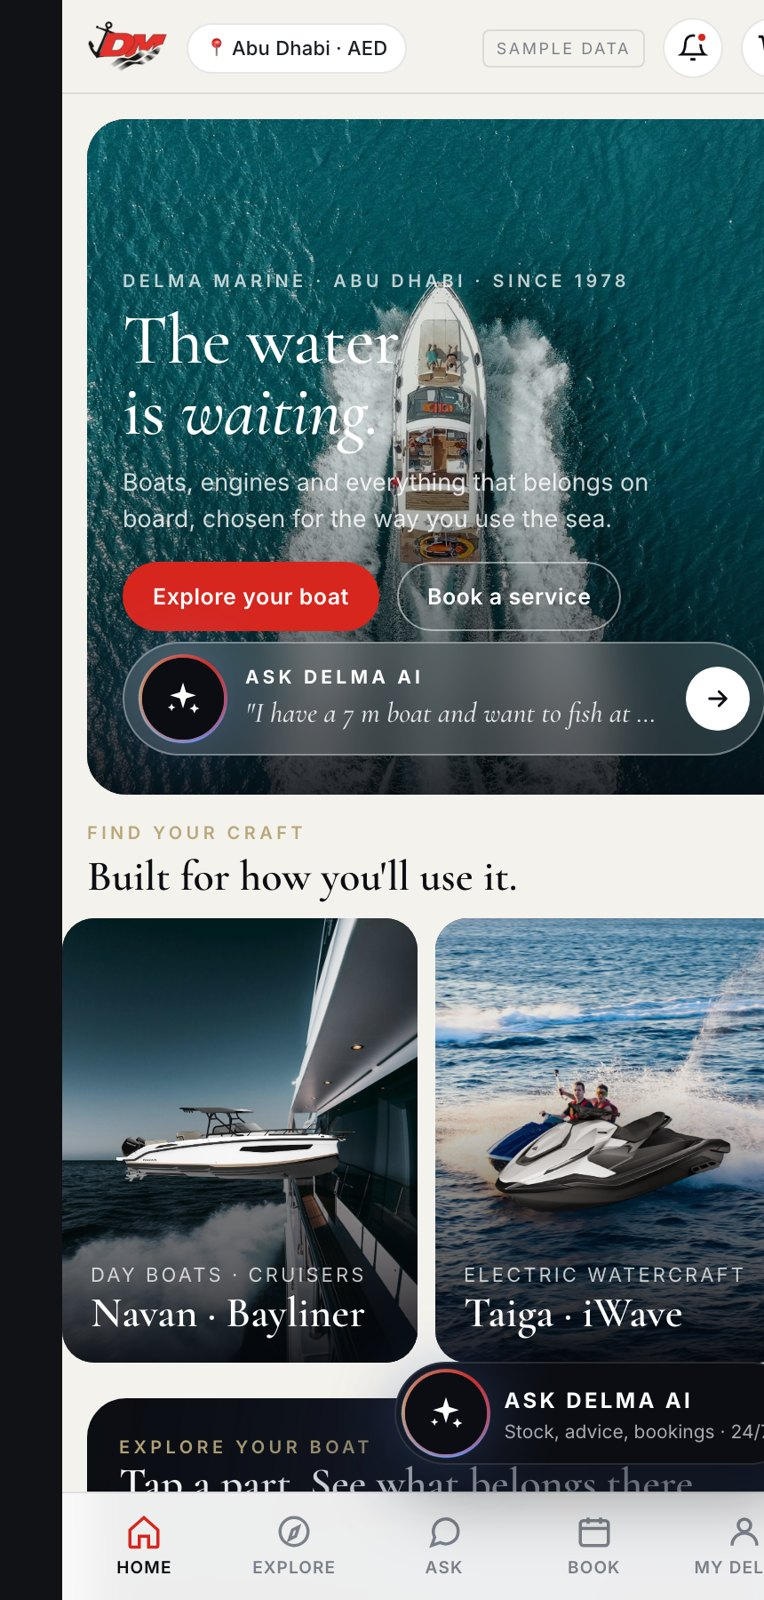
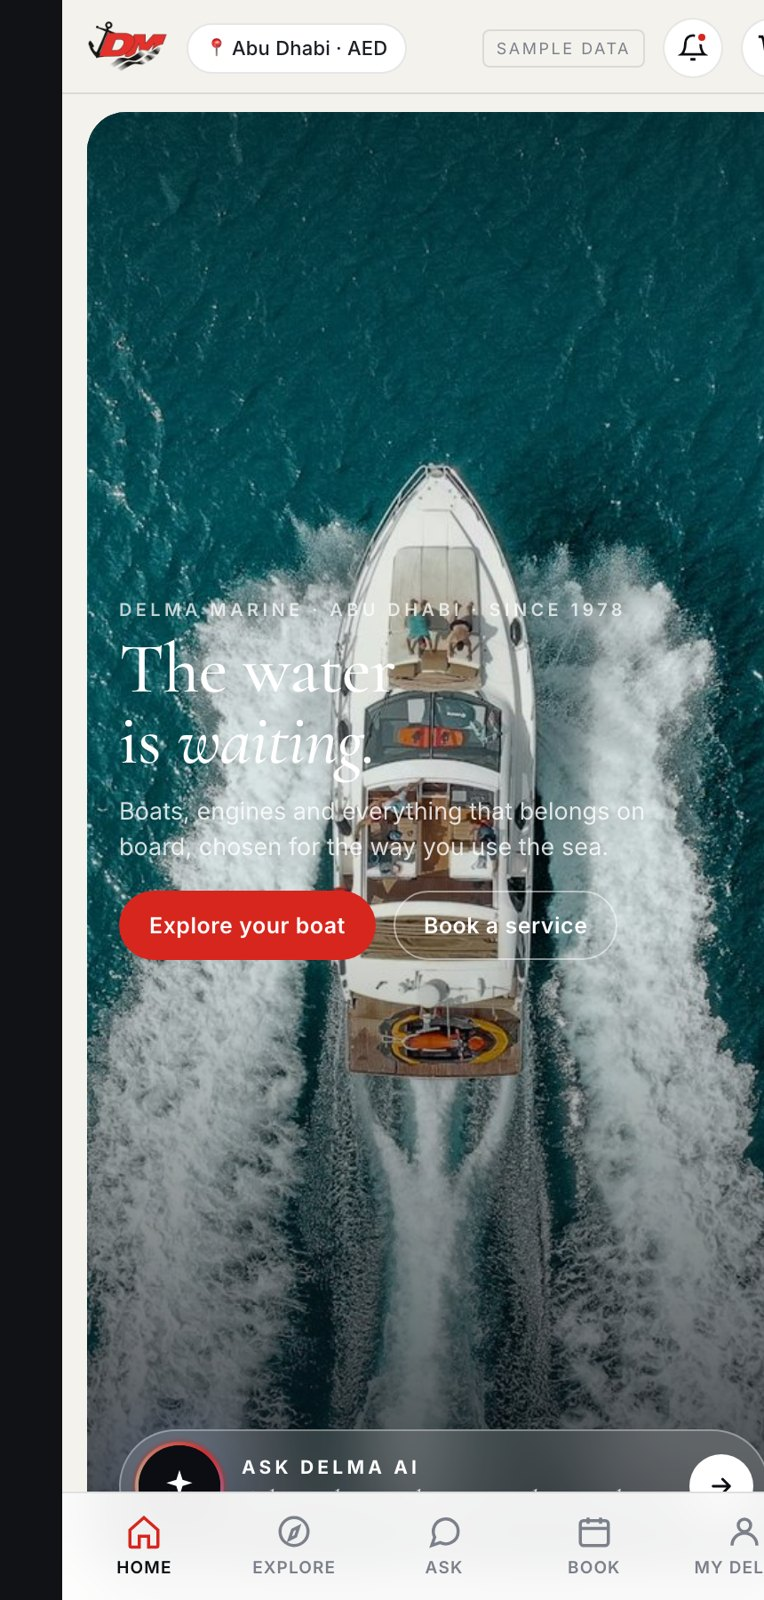
Full-screen cinematic hero with the AI type box at the bottom

diff --git a/index.html b/index.html
@@ -34,6 +34,7 @@ body{font-family:Inter,system-ui,-apple-system,sans-serif;background:#111216;col
 /* screens */
 #view{flex:1;overflow:auto;-webkit-overflow-scrolling:touch;position:relative;scroll-behavior:smooth}
 .scr{display:none;padding:14px 14px 90px}
+#s-home{padding-top:10px}
 .scr.on{display:block}
 h1{font-family:'Cormorant Garamond',Georgia,serif;font-size:30px;font-weight:600;letter-spacing:-.01em;line-height:1.1}
 h2{font-family:'Cormorant Garamond',Georgia,serif;font-size:24px;font-weight:600;margin:22px 0 10px;line-height:1.1}
@@ -52,9 +53,10 @@ p{margin-bottom:8px}
 .chip.ok{background:#E4F3EA;color:var(--ok)}.chip.am{background:#FBF0DA;color:var(--amber)}.chip.bl{background:#E6ECFA;color:var(--blue)}.chip.gr{background:#ECEAE3;color:var(--mut)}.chip.rd{background:#FBEAE8;color:var(--red)}
 .grid2{display:grid;grid-template-columns:1fr 1fr;gap:10px}
 /* hero */
-.hero{position:relative;border-radius:22px;overflow:hidden;min-height:380px;display:flex;flex-direction:column;justify-content:flex-end;padding:22px 20px;color:#fff;margin-bottom:14px;background:#0B0D12}
+.hero{position:relative;border-radius:22px;overflow:hidden;min-height:520px;display:flex;flex-direction:column;padding:22px 18px 18px;color:#fff;margin-bottom:14px;background:#0B0D12}
+.hero-copy{flex:1;display:flex;flex-direction:column;justify-content:center;position:relative}
 .hero .bg{position:absolute;inset:0;background:center/cover no-repeat;transform:scale(1.02)}
-.hero .sh{position:absolute;inset:0;background:linear-gradient(180deg,rgba(0,0,0,.05) 0%,rgba(0,0,0,.15) 45%,rgba(5,7,12,.85) 100%)}
+.hero .sh{position:absolute;inset:0;background:linear-gradient(180deg,rgba(0,0,0,.42) 0%,rgba(0,0,0,.08) 28%,rgba(0,0,0,.12) 55%,rgba(5,7,12,.82) 100%)}
 .hero>*{position:relative}
 .hero h1{font-size:40px;color:#fff;font-weight:500;line-height:1;margin:6px 0 10px}
 .hero h1 em{font-style:italic;font-weight:500}
@@ -221,9 +223,21 @@ p{margin-bottom:8px}
  body.desk .scr{padding:0 48px 80px;max-width:1320px;margin:0 auto}
  body.desk .scr.narrow{max-width:760px;padding-top:28px}
  body.desk #s-home{padding-top:0}
- body.desk .hero{min-height:620px;border-radius:0 0 28px 28px;margin:0 -48px 36px;padding:0 64px 64px}
- body.desk .hero h1{font-size:92px;max-width:900px;margin:10px 0 16px}
- body.desk .hero p{font-size:18px;max-width:520px;margin-bottom:22px}
+ body.desk #s-home{max-width:none;padding:0}
+ body.desk #s-home .wrap{max-width:1320px;margin:0 auto;padding:0 48px}
+ body.desk .hero{height:100vh;min-height:640px;border-radius:0;margin:0 0 44px;padding:96px 64px 40px}
+ body.desk.over .aifab{display:none}
+ body.desk .hero .bg{background-image:url(assets/photos/hero-aerial-4k.jpg)!important;background-position:center 45%}
+ body.desk .hero h1{font-size:104px;max-width:1000px;margin:12px 0 18px}
+ body.desk .hero p{font-size:19px;max-width:540px;margin-bottom:24px}
+ body.desk.over .top{position:absolute;left:0;right:0;top:0;background:transparent;border-bottom:0;backdrop-filter:none}
+ body.desk.over .top img{filter:brightness(0) invert(1)}
+ body.desk.over .hnav span{color:#fff}
+ body.desk.over .hnav span.on{color:#fff;text-decoration:underline;text-underline-offset:6px}
+ body.desk.over .hnav .ai{background:rgba(255,255,255,.16);border:1px solid rgba(255,255,255,.35)}
+ body.desk.over .pill,body.desk.over .ico,body.desk.over .viewtog{background:rgba(255,255,255,.14);color:#fff;border-color:rgba(255,255,255,.35)}
+ body.desk.over .ico svg{stroke:#fff}
+ body.desk.over .sample{color:rgba(255,255,255,.75);border-color:rgba(255,255,255,.35)}
  body.desk .hero .eyebrow{font-size:12px}
  body.desk h2{font-size:40px;margin:36px 0 16px}
  body.desk h1{font-size:48px}
@@ -266,7 +280,11 @@ p{margin-bottom:8px}
 .orb::after{content:"";position:absolute;inset:0;border-radius:50%;background:#0B0D12}
 .orb svg{width:22px;height:22px;position:relative;z-index:1;fill:#fff}
 .orb.sm{width:34px;height:34px;animation:none}.orb.sm svg{width:17px;height:17px}
-.aibar{display:flex;align-items:center;gap:12px;background:rgba(255,255,255,.14);backdrop-filter:blur(14px);border:1px solid rgba(255,255,255,.35);border-radius:999px;padding:8px 8px 8px 10px;cursor:pointer;margin-top:6px;max-width:560px;transition:.2s}
+.aibar{display:flex;align-items:center;gap:12px;background:rgba(255,255,255,.14);backdrop-filter:blur(14px);border:1px solid rgba(255,255,255,.35);border-radius:999px;padding:8px 8px 8px 10px;margin-top:14px;width:100%;transition:.2s;position:relative}
+.aibar:focus-within{background:rgba(255,255,255,.22);border-color:rgba(255,255,255,.7)}
+.aibar input{width:100%;border:0;background:transparent;color:#fff;font-family:'Cormorant Garamond',serif;font-style:italic;font-size:16px;outline:0;padding:0}
+.aibar input::placeholder{color:rgba(255,255,255,.75)}
+.aibar .go{border:0;cursor:pointer}
 .aibar:hover{background:rgba(255,255,255,.22)}
 .aibar .q{flex:1;min-width:0}
 .aibar .q b{display:block;font-size:10.5px;letter-spacing:.2em;text-transform:uppercase;color:#fff}
@@ -279,8 +297,10 @@ p{margin-bottom:8px}
 .aifab.hide{display:none}
 body.desk .aifab{right:40px;bottom:36px;padding:6px 20px 6px 6px}
 body.desk .aifab b{font-size:13px}
-body.desk .aibar{max-width:640px;padding:10px 10px 10px 12px;margin-top:10px}
-body.desk .aibar .q span{font-size:19px}
+body.desk .aibar{max-width:820px;padding:12px 12px 12px 14px;margin:0 auto;align-self:center}
+body.desk .aibar input{font-size:21px}
+body.desk .aibar .go{width:44px;height:44px}
+body.desk .aibar .orb{width:52px;height:52px}
 .hnav .ai{display:inline-flex;align-items:center;gap:6px;background:var(--ink);color:#fff!important;border-radius:999px;padding:7px 14px 7px 8px}
 .hnav .ai svg{width:14px;height:14px;fill:#fff}
 .hnav{display:none}
@@ -311,13 +331,16 @@ body.desk .aibar .q span{font-size:19px}
 <!-- HOME -->
 <section class="scr on" id="s-home">
   <div class="hero"><div class="bg" style="background-image:url(assets/photos/hero-aerial.jpg)"></div><div class="sh"></div>
-    <div class="eyebrow">Delma Marine · Abu Dhabi · since 1978</div>
-    <h1>The water<br>is <em>waiting.</em></h1>
-    <p>Boats, engines and everything that belongs on board, chosen for the way you use the sea.</p>
-    <div class="row" style="flex-wrap:wrap"><button class="btn p" onclick="go('explore')">Explore your boat</button><button class="btn g" onclick="go('book')">Book a service</button></div>
-    <div class="aibar" onclick="go('ask')"><div class="orb"><svg viewBox="0 0 24 24"><path d="M12 2l1.9 6.1L20 10l-6.1 1.9L12 18l-1.9-6.1L4 10l6.1-1.9zM19 15l.9 2.1L22 18l-2.1.9L19 21l-.9-2.1L16 18l2.1-.9zM5 15l.7 1.6L7.3 17.3l-1.6.7L5 19.6l-.7-1.6L2.7 17.3l1.6-.7z"/></svg></div><div class="q"><b>Ask Delma AI</b><span>"I have a 7 m boat and want to fish at night. What do I need?"</span></div><div class="go"><svg viewBox="0 0 24 24" fill="none" stroke="currentColor" stroke-width="2.2" stroke-linecap="round" stroke-linejoin="round"><path d="M5 12h14M13 6l6 6-6 6"/></svg></div></div>
+    <div class="hero-copy">
+      <div class="eyebrow">Delma Marine · Abu Dhabi · since 1978</div>
+      <h1>The water<br>is <em>waiting.</em></h1>
+      <p>Boats, engines and everything that belongs on board, chosen for the way you use the sea.</p>
+      <div class="row" style="flex-wrap:wrap"><button class="btn p" onclick="go('explore')">Explore your boat</button><button class="btn g" onclick="go('book')">Book a service</button></div>
+    </div>
+    <form class="aibar" onsubmit="event.preventDefault();askFromHome()"><div class="orb"><svg viewBox="0 0 24 24"><path d="M12 2l1.9 6.1L20 10l-6.1 1.9L12 18l-1.9-6.1L4 10l6.1-1.9zM19 15l.9 2.1L22 18l-2.1.9L19 21l-.9-2.1L16 18l2.1-.9zM5 15l.7 1.6L7.3 17.3l-1.6.7L5 19.6l-.7-1.6L2.7 17.3l1.6-.7z"/></svg></div><div class="q"><b>Ask Delma AI</b><input id="homeask" placeholder="Ask anything: &ldquo;I have a 7 m boat and want to fish at night. What do I need?&rdquo;"></div><button class="go" type="submit" aria-label="Ask"><svg viewBox="0 0 24 24" fill="none" stroke="currentColor" stroke-width="2.2" stroke-linecap="round" stroke-linejoin="round"><path d="M5 12h14M13 6l6 6-6 6"/></svg></button></form>
   </div>
 
+  <div class="wrap">
   <div class="eyebrow">Find your craft</div>
   <h2 style="margin-top:4px">Built for how you'll use it.</h2>
   <div class="bar">
@@ -379,6 +402,7 @@ body.desk .aibar .q span{font-size:19px}
   <div class="brands" style="margin-top:8px"><span>Mercury</span><span>Bayliner</span><span>Navan</span><span>Taiga</span><span>ABNC</span><span>iWave</span><span>Whaly</span><span>SeaStorm</span><span>Lowrance</span><span>Kicker</span><span>Omnisense</span><span>Bob's Machine</span><span>Ultraflex</span><span>Hella Marine</span><span>Seaview</span><span>Polyform</span><span>Fendequip</span><span>Marlow</span><span>Beuchat</span><span>Connelly</span><span>E-SeaRider</span><span>Comfort Seat</span><span>Vitrifrigo</span><span>Max</span><span>Borika</span><span>Pelican</span><span>Wilderness</span><span>Perception</span></div>
 
   <div class="foot"><div><b>Delma Marine</b>Delma Industrial Supplies & Marine Services · since 1978<br>Umm Al Nar, Abu Dhabi · PO Box 53382</div><div>Abu Dhabi · Dubai · Fujairah · Ras Al Khaimah · Seychelles<br>Mangrove Marine · ICAD warehouse</div><div>+971 2 557 6625 · info@delmamarine.net<br>@delmamarineuae · <a href="#staff" style="color:var(--mut)">Staff view</a></div></div>
+  </div>
 </section>
 
 <!-- EXPLORE -->
@@ -731,10 +755,15 @@ function closeSheet(){document.getElementById('sheet').classList.remove('on');do
 function paid(a){document.getElementById('sheet').innerHTML=`<div class="handle"></div><div style="text-align:center;padding:10px 0 4px"><div style="width:54px;height:54px;border-radius:50%;background:#E6F6EC;color:var(--ok);display:grid;place-items:center;margin:0 auto 10px;font-size:26px">✓</div><b style="font-size:16px">Paid ${a}</b><p class="sm mut" style="margin:4px 0 12px">Order DM-10482 confirmed · tax invoice emailed · we'll message you on WhatsApp with every update.</p><button class="btn k" onclick="closeSheet();basket=[];document.getElementById('bdot').style.display='none';renderBasket();go('mydelma')">Track it in My Delma</button></div>`}
 let tt;function toast(t){if(FAST)return;const e=document.getElementById('toast');e.textContent=t;e.classList.add('on');clearTimeout(tt);tt=setTimeout(()=>e.classList.remove('on'),2200)}
 function showPush(){const p=document.getElementById('push');p.classList.add('on');if(!FAST)setTimeout(()=>p.classList.remove('on'),4000)}
-function go(s){document.querySelectorAll('.scr').forEach(e=>e.classList.remove('on'));document.getElementById('s-'+s).classList.add('on');document.querySelectorAll('.nav div,.hnav span').forEach(d=>d.classList.toggle('on',d.dataset.s===s));document.getElementById('view').scrollTop=0;closeSheet();document.getElementById('aifab').classList.toggle('hide',s==='ask'||s==='staff'||s==='tech');
+function askFromHome(){const v=(document.getElementById('homeask').value||'').trim();go('ask');startChat();if(v){document.getElementById('askin').value=v;sendTyped();document.getElementById('homeask').value=''}}
+function fitHero(){const h=document.querySelector('#s-home .hero');if(!h)return;if(document.body.classList.contains('desk')){h.style.minHeight=''}else{h.style.minHeight=(document.getElementById('view').clientHeight-24)+'px'}}
+addEventListener('resize',fitHero);
+function updateOver(){const home=document.getElementById('s-home').classList.contains('on'),desk=document.body.classList.contains('desk'),st=document.getElementById('view').scrollTop;document.body.classList.toggle('over',desk&&home&&st<40);const fab=document.getElementById('aifab');fab.classList.toggle('hide',fab.dataset.sh==='1'||(home&&st<(desk?40:420)))}
+document.getElementById('view').addEventListener('scroll',updateOver,{passive:true});
+function go(s){document.querySelectorAll('.scr').forEach(e=>e.classList.remove('on'));document.getElementById('s-'+s).classList.add('on');document.querySelectorAll('.nav div,.hnav span').forEach(d=>d.classList.toggle('on',d.dataset.s===s));document.getElementById('view').scrollTop=0;closeSheet();document.getElementById('aifab').dataset.sh=(s==='ask'||s==='staff'||s==='tech')?'1':'';updateOver();
  if(s==='explore')renderStage();if(s==='ask')startChat();if(s==='basket')renderBasket();if(s==='book')renderBook();if(s==='staff')renderStaff();if(s==='tech')renderTech();if(location.hash!=='#'+s)history.replaceState(null,'','#'+s)}
 window.addEventListener('hashchange',()=>{const h=location.hash.slice(1);if(document.getElementById('s-'+h))go(h)});
-function setView(v){document.body.classList.toggle('desk',v==='web');document.getElementById('vtog').textContent=v==='web'?'App view':'Website view';try{localStorage.setItem('dm-view',v)}catch(e){}}
+function setView(v){document.body.classList.toggle('desk',v==='web');setTimeout(()=>{updateOver();fitHero()},0);document.getElementById('vtog').textContent=v==='web'?'App view':'Website view';try{localStorage.setItem('dm-view',v)}catch(e){}}
 function toggleView(){setView(document.body.classList.contains('desk')?'app':'web')}
 let v0='web';try{v0=localStorage.getItem('dm-view')||'web'}catch(e){}
 if(/[?&]view=app/.test(location.search))v0='app';if(/[?&]view=web/.test(location.search))v0='web';setView(v0);
